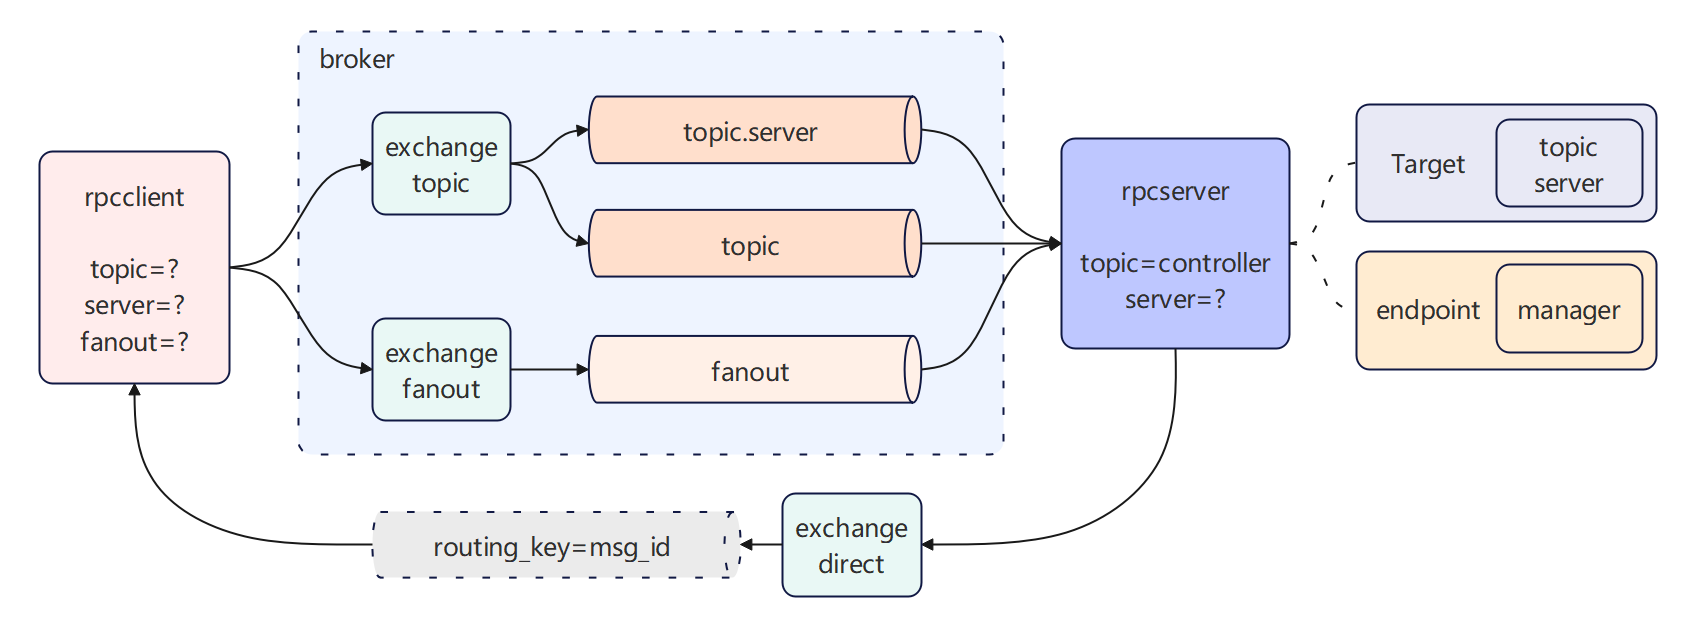
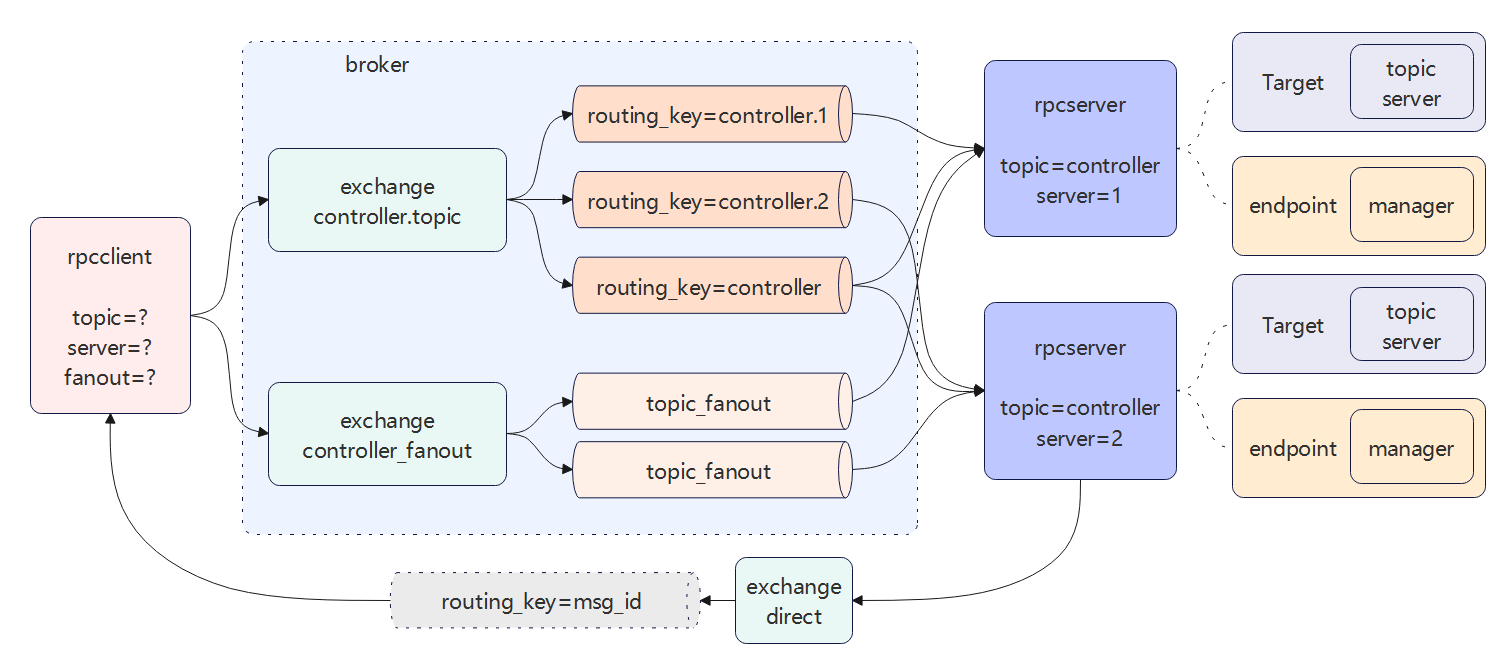
1
1

diff --git a/src/other/component_oslo_messaging.md b/src/other/component_oslo_messaging.md
@@ -310,6 +310,17 @@ class AMQPDriverBase(base.BaseDriver):
 ```
 
 ### 流程图
-创建`rpcserver`时会创建三个队列，分别为`topic`、`tppic.server`、`fanout`，`rpcclient`使用`call()
-`方法时，会临时创建一个反向的`reply`队列用于监听，调用任务完成后这个队列就会被删除
+**创建rpcserver**
+
+创建rpcserver需要指定`topic`和`server`，创建rpcserver时会创建三个队列与对应类型的交换机绑定，其对应的路由键分别为`topic.server`、`topic`、`topic`
+
+**创建rpcclient**
+
+创建rpcclient需要指定`topic`
+
+-   如果不指定`server`，则消息发送到`topic`消息队列中，并通过轮询的方式发送给消费者（rpcserver）
+-   如果指定了`server`则会发送给`topic.server`队列，并由一个rpcserver消费
+-   如果指定`fanout=True`，则消息会发送到`fanout`队列中，订阅该队列的所有消费者都会收到这个消息
+-   使用`call()`方法时，会临时创建一个反向的`reply`队列用于监听，调用任务完成后这个队列就会被删除
+
 ![oslo_messaging通信方式](/image/oslo_messaging.png)
